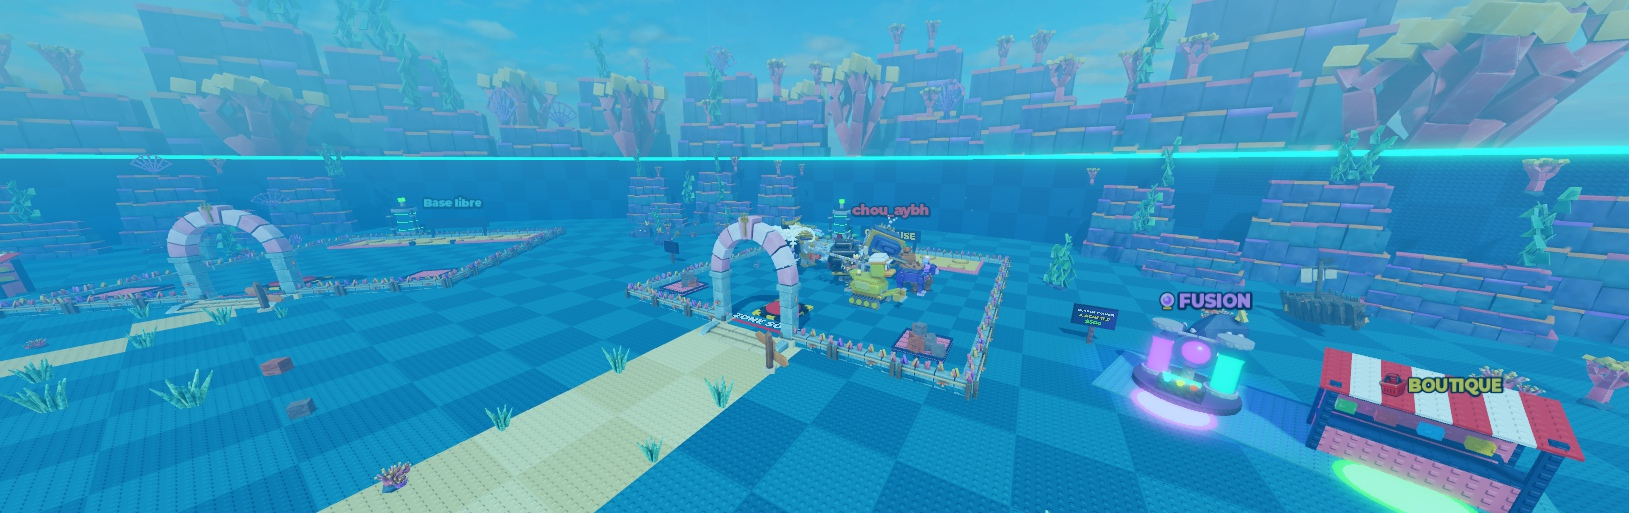
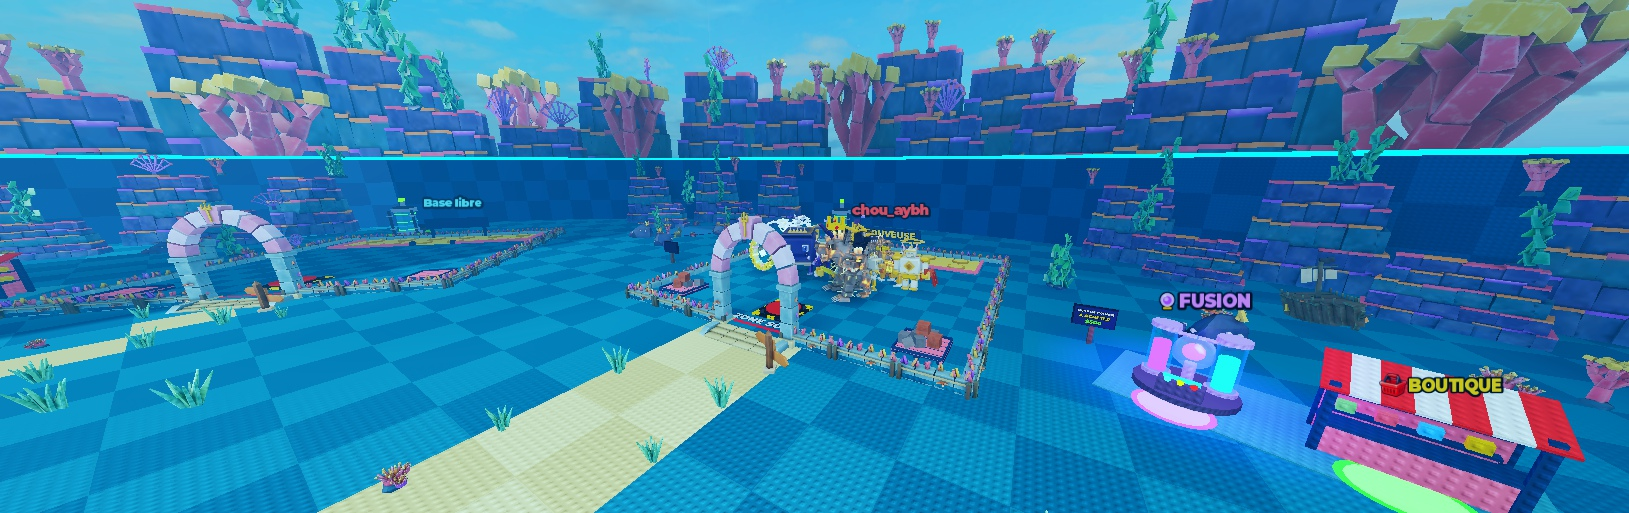
feat: air des Abysses éclairci (densité 0,34, saturation 0,26), vérifié en Play

diff --git a/dataset_and_pipeline/MAP.md b/dataset_and_pipeline/MAP.md
@@ -244,5 +244,8 @@ Corail, Calmar Colosse, Poisson-Lanterne Disco). 17 décors dans `blender_tools/
 - Vérifié en Play (solo, monde changé côté client) : aux Abysses, seuls les décors des Abysses visibles (596 pièces, les
   4 autres mondes cachés), 22 lumières allumées (0 pour la Glace), AbyssesLook visible et les 4 autres habillages
   cachés ; retour en Prairie : tout s'éteint et se cache. Photos `qa_renders/map_roblox_abysses_jour.jpg`,
-  `map_roblox_abysses_fosse.jpg`, `map_roblox_abysses_nuit.jpg`, `map_roblox_abysses_sanctuaire_nuit.jpg`. En jeu, l'air
-  du monde (déjà réglé avant : densité 0,45, saturation 0,15 dans `shared/Worlds`) est plus voilé que dans les rendus.
+  `map_roblox_abysses_fosse.jpg`, `map_roblox_abysses_nuit.jpg`, `map_roblox_abysses_sanctuaire_nuit.jpg`.
+- Air des Abysses éclairci (`shared/Worlds`, accord de Chouaib) : densité 0,45 -> 0,34, teinte moins cyan
+  (215, 242, 250), saturation 0,15 -> 0,26 ; l'ancien air voilait tout et délavait les coraux. Vérifié en Play
+  (Atmosphere 0,34, ColorCorrection 0,26 au monde Abysses) : coraux roses et jaunes nets, de jour comme de nuit
+  (photos jour / nuit ci-dessus, reprises après le changement).
